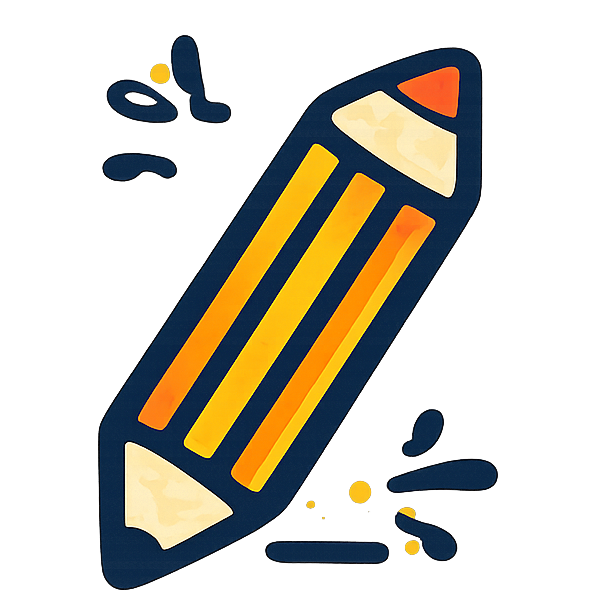
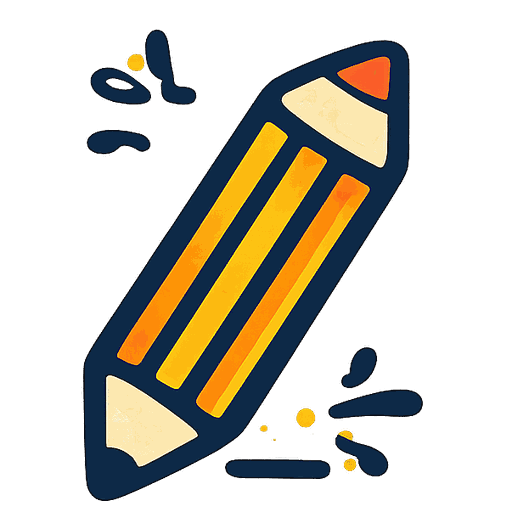
Obrazy: konwersja na WebP, 7,2 MB -> 875 KB
- 10 okładek: PNG -> WebP q88 (4,9 MB -> 852 KB)
- Ozdobnik loop: 1536x1024 i 2 MB -> 192x128 i 4 KB (wyświetlany 48x32)
- Favicon: 603x603 -> 512x512 z paletą (263 KB -> 19 KB)

Strona główna pobiera ok. 440 KB obrazów zamiast ok. 4,6 MB.
Oryginalne pliki PNG zostają w historii repozytorium.

Changed region(s): [[0.6875, 0.3438, 0.7188, 0.375], [0.6562, 0.8438, 0.6875, 0.875], [0.6562, 0.125, 0.6875, 0.1562]]

diff --git a/data/books.ts b/data/books.ts
@@ -21,7 +21,7 @@ export type Book = {
   lang: BookLang; // język treści książki
   description: string;
   features: string[]; // np. ["100 wykreślanek", "Duża czcionka", ...]
-  coverImage: string; // /public/covers/<slug>.png — nazwa pliku równa slugowi
+  coverImage: string; // /public/covers/<slug>.webp — nazwa pliku równa slugowi
   amazonUrl: string;
   featured: boolean;
   comingSoon?: boolean;
@@ -82,7 +82,7 @@ export const books: Book[] = [
       'Duże litery',
       'Tematy bliskie dzieciom (zwierzęta, rodzina, kolory)',
     ],
-    coverImage: '/covers/znajdz-slowko-poziom-latwy.png',
+    coverImage: '/covers/znajdz-slowko-poziom-latwy.webp',
     amazonUrl: 'https://amzn.eu/d/0coMqTkj',
     featured: true,
     formatInches: '8,5 × 11 cala',
@@ -104,7 +104,7 @@ export const books: Book[] = [
       'Przejrzysty, czytelny układ',
       'Tematy bliskie dzieciom (zwierzęta, rodzina, kolory)',
     ],
-    coverImage: '/covers/znajdz-slowko-poziom-latwy-6-7.png',
+    coverImage: '/covers/znajdz-slowko-poziom-latwy-6-7.webp',
     amazonUrl: 'https://amzn.eu/d/07BBUa1X',
     featured: true,
     formatInches: '8,5 × 11 cala',
@@ -126,7 +126,7 @@ export const books: Book[] = [
       'Rozwija koncentrację i spostrzegawczość',
       'Tematy bliskie dzieciom (zwierzęta, rodzina, kolory)',
     ],
-    coverImage: '/covers/znajdz-slowko-poziom-sredni-7-9.png',
+    coverImage: '/covers/znajdz-slowko-poziom-sredni-7-9.webp',
     amazonUrl: 'https://amzn.eu/d/0dJNgtH1',
     featured: true,
     formatInches: '8,5 × 11 cala',
@@ -148,7 +148,7 @@ export const books: Book[] = [
       'Rozwija koncentrację i cierpliwość',
       'Tematy bliskie dzieciom (zwierzęta, rodzina, kolory)',
     ],
-    coverImage: '/covers/znajdz-slowko-poziom-trudny-10.png',
+    coverImage: '/covers/znajdz-slowko-poziom-trudny-10.webp',
     amazonUrl: 'https://amzn.eu/d/07eXC8JG',
     featured: true,
     formatInches: '8,5 × 11 cala',
@@ -170,7 +170,7 @@ export const books: Book[] = [
       'Gęste plansze i długie słowa',
       'Trening koncentracji i cierpliwości',
     ],
-    coverImage: '/covers/znajdz-slowko-poziom-ekspert-13.png',
+    coverImage: '/covers/znajdz-slowko-poziom-ekspert-13.webp',
     amazonUrl: 'https://amzn.eu/d/07es8Itl',
     featured: false,
     formatInches: '8,5 × 11 cala',
@@ -192,7 +192,7 @@ export const books: Book[] = [
       'Rozwiązania na końcu książki',
       'Dla miłośników gór i zdobywców odznak turystycznych',
     ],
-    coverImage: '/covers/zdobywca-szczytow.png',
+    coverImage: '/covers/zdobywca-szczytow.webp',
     amazonUrl: 'https://amzn.eu/d/03CTNBDE',
     featured: true,
     formatInches: '8,5 × 11 cala',
@@ -214,7 +214,7 @@ export const books: Book[] = [
       'Krótka instrukcja dla początkujących',
       'Komplet rozwiązań na końcu książki',
     ],
-    coverImage: '/covers/sudoku-duzym-drukiem-100.png',
+    coverImage: '/covers/sudoku-duzym-drukiem-100.webp',
     amazonUrl: 'https://amzn.eu/d/01Wm4XgX',
     featured: false,
     formatInches: '8,5 × 11 cala',
@@ -236,7 +236,7 @@ export const books: Book[] = [
       'Wszystkie rozwiązania na końcu książki',
       'Czytelne plansze z pogrubionymi liniami bloków 3×3',
     ],
-    coverImage: '/covers/sudoku-300-zagadek-200.png',
+    coverImage: '/covers/sudoku-300-zagadek-200.webp',
     amazonUrl: 'https://amzn.eu/d/08vEb3Mk',
     featured: true,
     formatInches: '8,5 × 11 cala',
@@ -258,7 +258,7 @@ export const books: Book[] = [
       'Lesenlernen mit Spaß',
       'Große Buchstaben',
     ],
-    coverImage: '/covers/meine-ersten-wortsuchratsel-stufe-1.png',
+    coverImage: '/covers/meine-ersten-wortsuchratsel-stufe-1.webp',
     amazonUrl: 'https://amzn.eu/d/06ffGySu',
     featured: true,
     formatInches: '8,5 × 11 cala',
@@ -280,7 +280,7 @@ export const books: Book[] = [
       'Festigt das Lesen vor der Einschulung',
       'Große Buchstaben',
     ],
-    coverImage: '/covers/meine-ersten-wortsuchratsel-stufe-2.png',
+    coverImage: '/covers/meine-ersten-wortsuchratsel-stufe-2.webp',
     amazonUrl: 'https://amzn.eu/d/0cmPID9O',
     featured: true,
     formatInches: '8,5 × 11 cala',

diff --git a/app/de/page.tsx b/app/de/page.tsx
@@ -191,7 +191,7 @@ export default function HomePageDe() {
                   Finde etwas für dich
                 </span>
                 <Image
-                  src="/doodles/loop.png"
+                  src="/doodles/loop.webp"
                   alt=""
                   width={120}
                   height={80}

diff --git a/app/pl/page.tsx b/app/pl/page.tsx
@@ -208,7 +208,7 @@ export default function HomePage() {
                   Znajdź coś dla siebie
                 </span>
                 <Image
-                  src="/doodles/loop.png"
+                  src="/doodles/loop.webp"
                   alt=""
                   width={120}
                   height={80}
